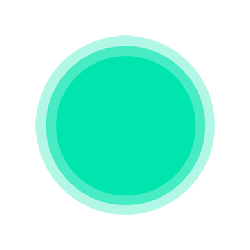
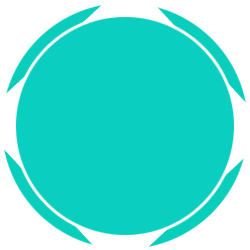
Create new images for the cluster (no transparency for performances) Set fixed font size and image dimensions Allow better handle click

diff --git a/src/MarkerCluster.js b/src/MarkerCluster.js
@@ -177,7 +177,7 @@ define(['../libraries/supercluster.min', '../libraries/WorldWind/WorldWind'], fu
             var redrawRequired = highlightedItems.length > 0;
 
             for (var h = 0; h < highlightedItems.length; h++) {
-                highlightedItems[h].attributes.imageScale = 1;
+                highlightedItems[h].attributes.imageScale-=0.2;
                 highlightedItems[h].attributes.labelAttributes.font.size -= 10;
             }
             highlightedItems = [];
@@ -192,7 +192,7 @@ define(['../libraries/supercluster.min', '../libraries/WorldWind/WorldWind'], fu
                 for (var p = 0; p < pickList.objects.length; p++) {
                     if (!pickList.objects[p].isTerrain) {
                         if (pickList.objects[p].userObject.attributes && pickList.objects[p].userObject.attributes.imageScale) {
-                            pickList.objects[p].userObject.attributes.imageScale = 1.1;
+                            pickList.objects[p].userObject.attributes.imageScale+=0.2;
                             pickList.objects[p].userObject.attributes.labelAttributes.font.size += 10;
                             highlightedItems.push(pickList.objects[p].userObject);
                         }
@@ -219,9 +219,11 @@ define(['../libraries/supercluster.min', '../libraries/WorldWind/WorldWind'], fu
                 for (var p = 0; p < pickList.objects.length; p++) {
                     if (!pickList.objects[p].isTerrain) {
                         if (pickList.objects[p].userObject.options.zoomLevel) {
+                            self.globe.navigator.lookAtLocation.latitude = pickList.objects[p].userObject.position.latitude;
+                            self.globe.navigator.lookAtLocation.longitude = pickList.objects[p].userObject.position.longitude;
                             self.globe.navigator.range /= 2;
                             self.handleClusterZoom(self.globe.navigator.range);
-
+                            break;
                         }
                     }
                 }
@@ -293,7 +295,7 @@ define(['../libraries/supercluster.min', '../libraries/WorldWind/WorldWind'], fu
         var self = this;
         cluster = supercluster({
             log: true,
-            radius: 60,//should be dynamic
+            radius: 70,//should be dynamic
             extent: 128,
             maxZoom: self.zoomLevels
         }).load(geojson.features);
@@ -345,14 +347,14 @@ define(['../libraries/supercluster.min', '../libraries/WorldWind/WorldWind'], fu
                         label = "" + f.properties.point_count_abbreviated;
                         var offsetText =
                             new WorldWind.Offset(
-                                WorldWind.OFFSET_PIXELS, 10,
-                                WorldWind.OFFSET_PIXELS, -80);
-                        var imageScale = 0.8;
-                        var zoomLevel=y+1;
+                                WorldWind.OFFSET_PIXELS, 5,
+                                WorldWind.OFFSET_PIXELS, -40);
+                        var imageScale = 0.5;
+                        var zoomLevel = y + 1;
                     } else {
                         label = f.properties.name;
                         imageSource = WorldWind.configuration.baseUrl + "images/pushpins/push-pin-red.png";
-                        var zoomLevel=false;
+                        var zoomLevel = false;
                     }
                     var options = {
                         imageSource: imageSource,
@@ -360,7 +362,7 @@ define(['../libraries/supercluster.min', '../libraries/WorldWind/WorldWind'], fu
                         label: label,
                         offsetText: offsetText,
                         imageScale: imageScale,
-                        zoomLevel:zoomLevel
+                        zoomLevel: zoomLevel
                     };
                     var p = self.newPlacemark(f.geometry.coordinates, null, options);
 
@@ -443,7 +445,7 @@ define(['../libraries/supercluster.min', '../libraries/WorldWind/WorldWind'], fu
                     WorldWind.OFFSET_FRACTION, 1.0);
             }
             placemarkAttributes.labelAttributes.color = WorldWind.Color.WHITE;
-            placemarkAttributes.labelAttributes.font.size = 40;
+            placemarkAttributes.labelAttributes.font.size = 30;
 
 
         }
